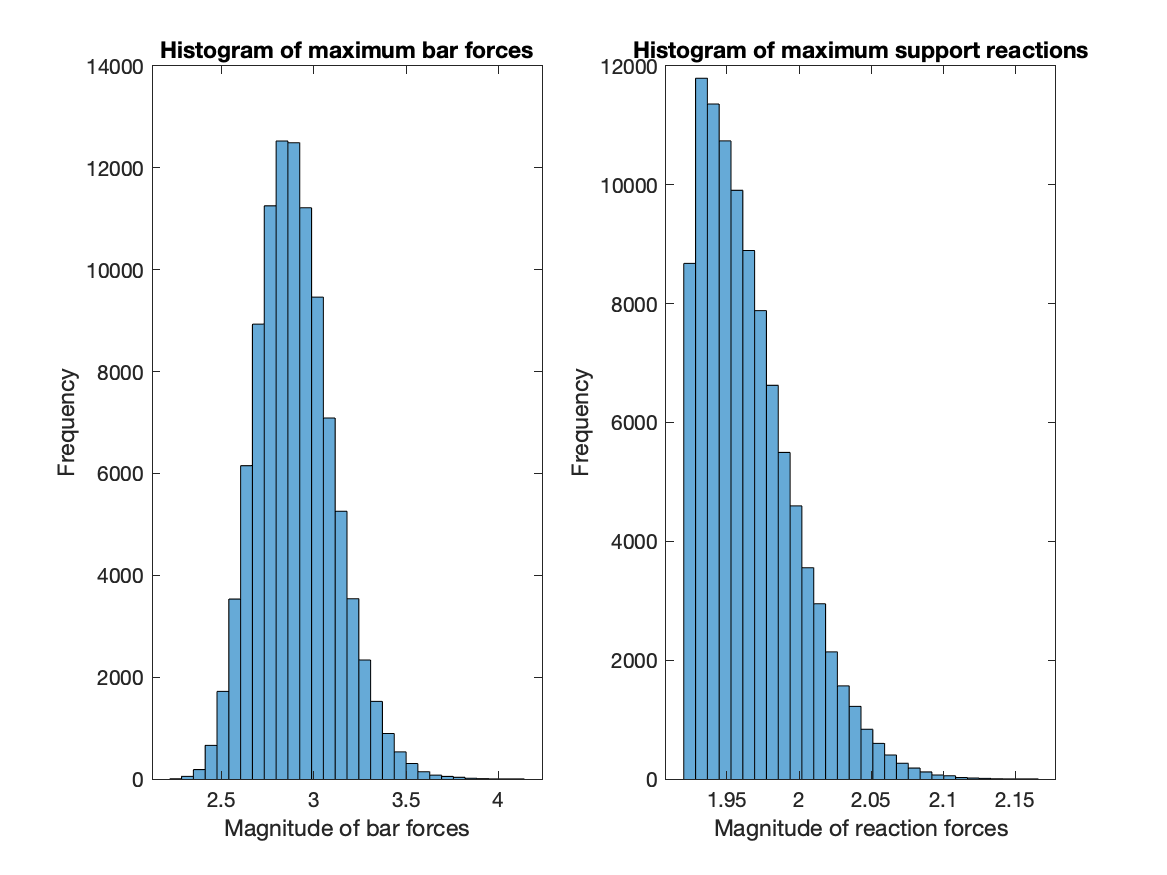
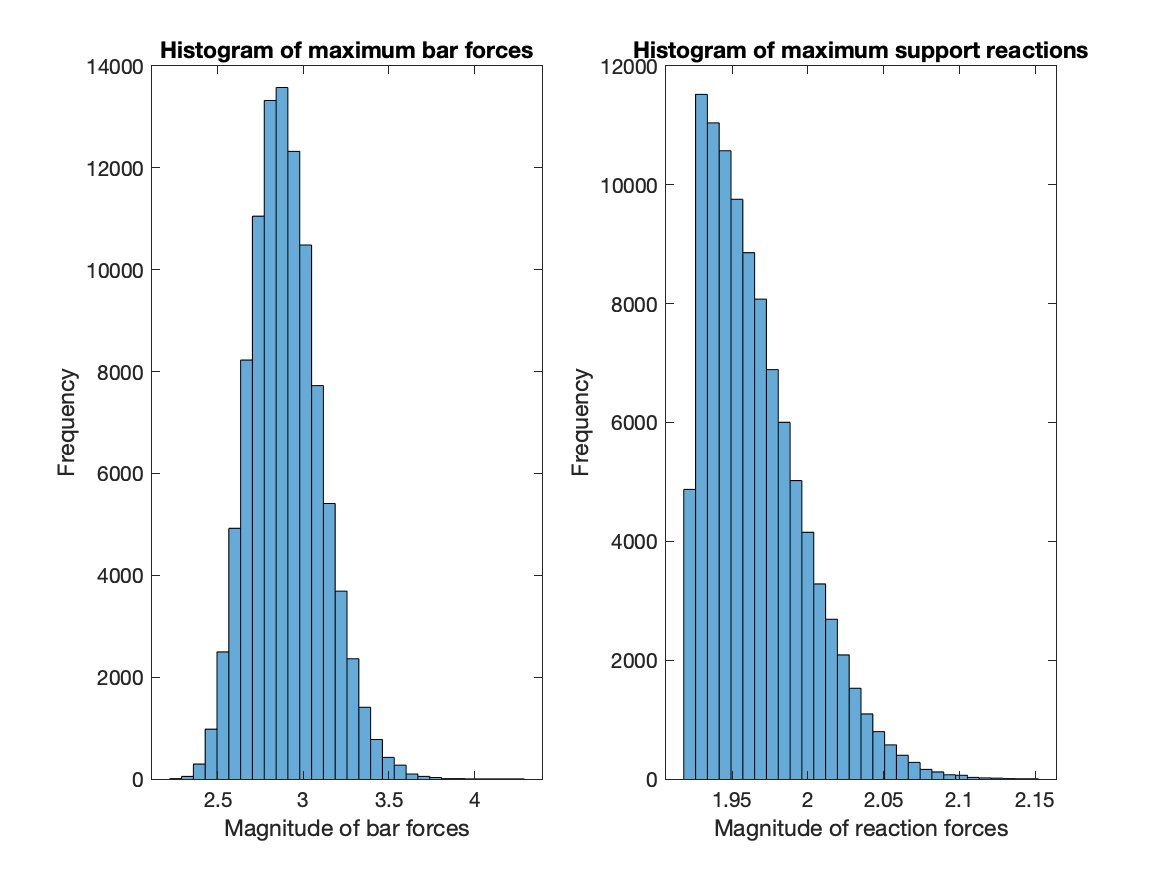
Updated some stuff

diff --git a/Lab2/Truss3d/Design1/TrussInNOutDesign1.m b/Lab2/Truss3d/Design1/TrussInNOutDesign1.m
@@ -4,7 +4,7 @@ close all;
 
 inputfile = 'Design1.inp';
 outputfile = 'Design1Out.txt';
-AssumedFail = 0.005/100 ;
+AssumedFail = 1.5e-5 ;
 LinDensity = 31.13 / 1000 ; % kg / m
 sleveweight = (5.35/1000)*9.81;
 magnetsmass = 1.7;
@@ -63,12 +63,20 @@ numsamples = 1e5;   % number of samples
 
 ProbFaliure = MonteCarls(inputfile);
 
-Fdsr = icdf('normal',0.51,jstrmean,0.08);
+Fdsr = icdf('normal',AssumedFail,jstrmean,0.4);
 
 % any given time your max tensile/compressive strength shouldn't exceed the
-% 
+% the max force in the bars
+
+% the safety factor.
+
 Saf = 4.8 / Fdsr ;
 
 %save the montecarlo result
 saveas(gcf,['MonteCarlo.png'])
 
+%% fprintf
+
+fprintf('Assumed probability failure: %2.5f\n',AssumedFail);
+fprintf('Monte-Carlo probability of failure: %2.5f\n',ProbFaliure);
+fprintf('Safety factor: %2.5f\n',Saf);

diff --git a/Lab2/README.md b/Lab2/README.md
@@ -1,8 +1,11 @@
-# This repo contains the work for Lab 2 in ASEN 2001: Statics and Materials, CU Boulder, Fall 18.
-
-
 ### Contents:
 
-* **Assignment information:** The assignment details and goals.
+---
 
-* **Truss3d:** The actual designs, with 2 designs and 2 test cases, additional information is provided inside.
+* **Design1:** The first design.
+
+* **Design2::** The second design.
+
+* **TrussAnalysis.mlapp:** GUI used to design the trusses.
+
+* **CDR.pdf:** Critical Design Review presentation.

diff --git a/Lab2/Truss3d/README.md b/Lab2/Truss3d/README.md
@@ -1,0 +1,8 @@
+# This repo contains the work for Lab 2 in ASEN 2001: Statics and Materials, CU Boulder, Fall 18.
+
+
+### Contents:
+
+* **Assignment information:** The assignment details and goals.
+
+* **Truss3d:** The actual designs, with 2 designs and 2 test cases, additional information is provided inside.
